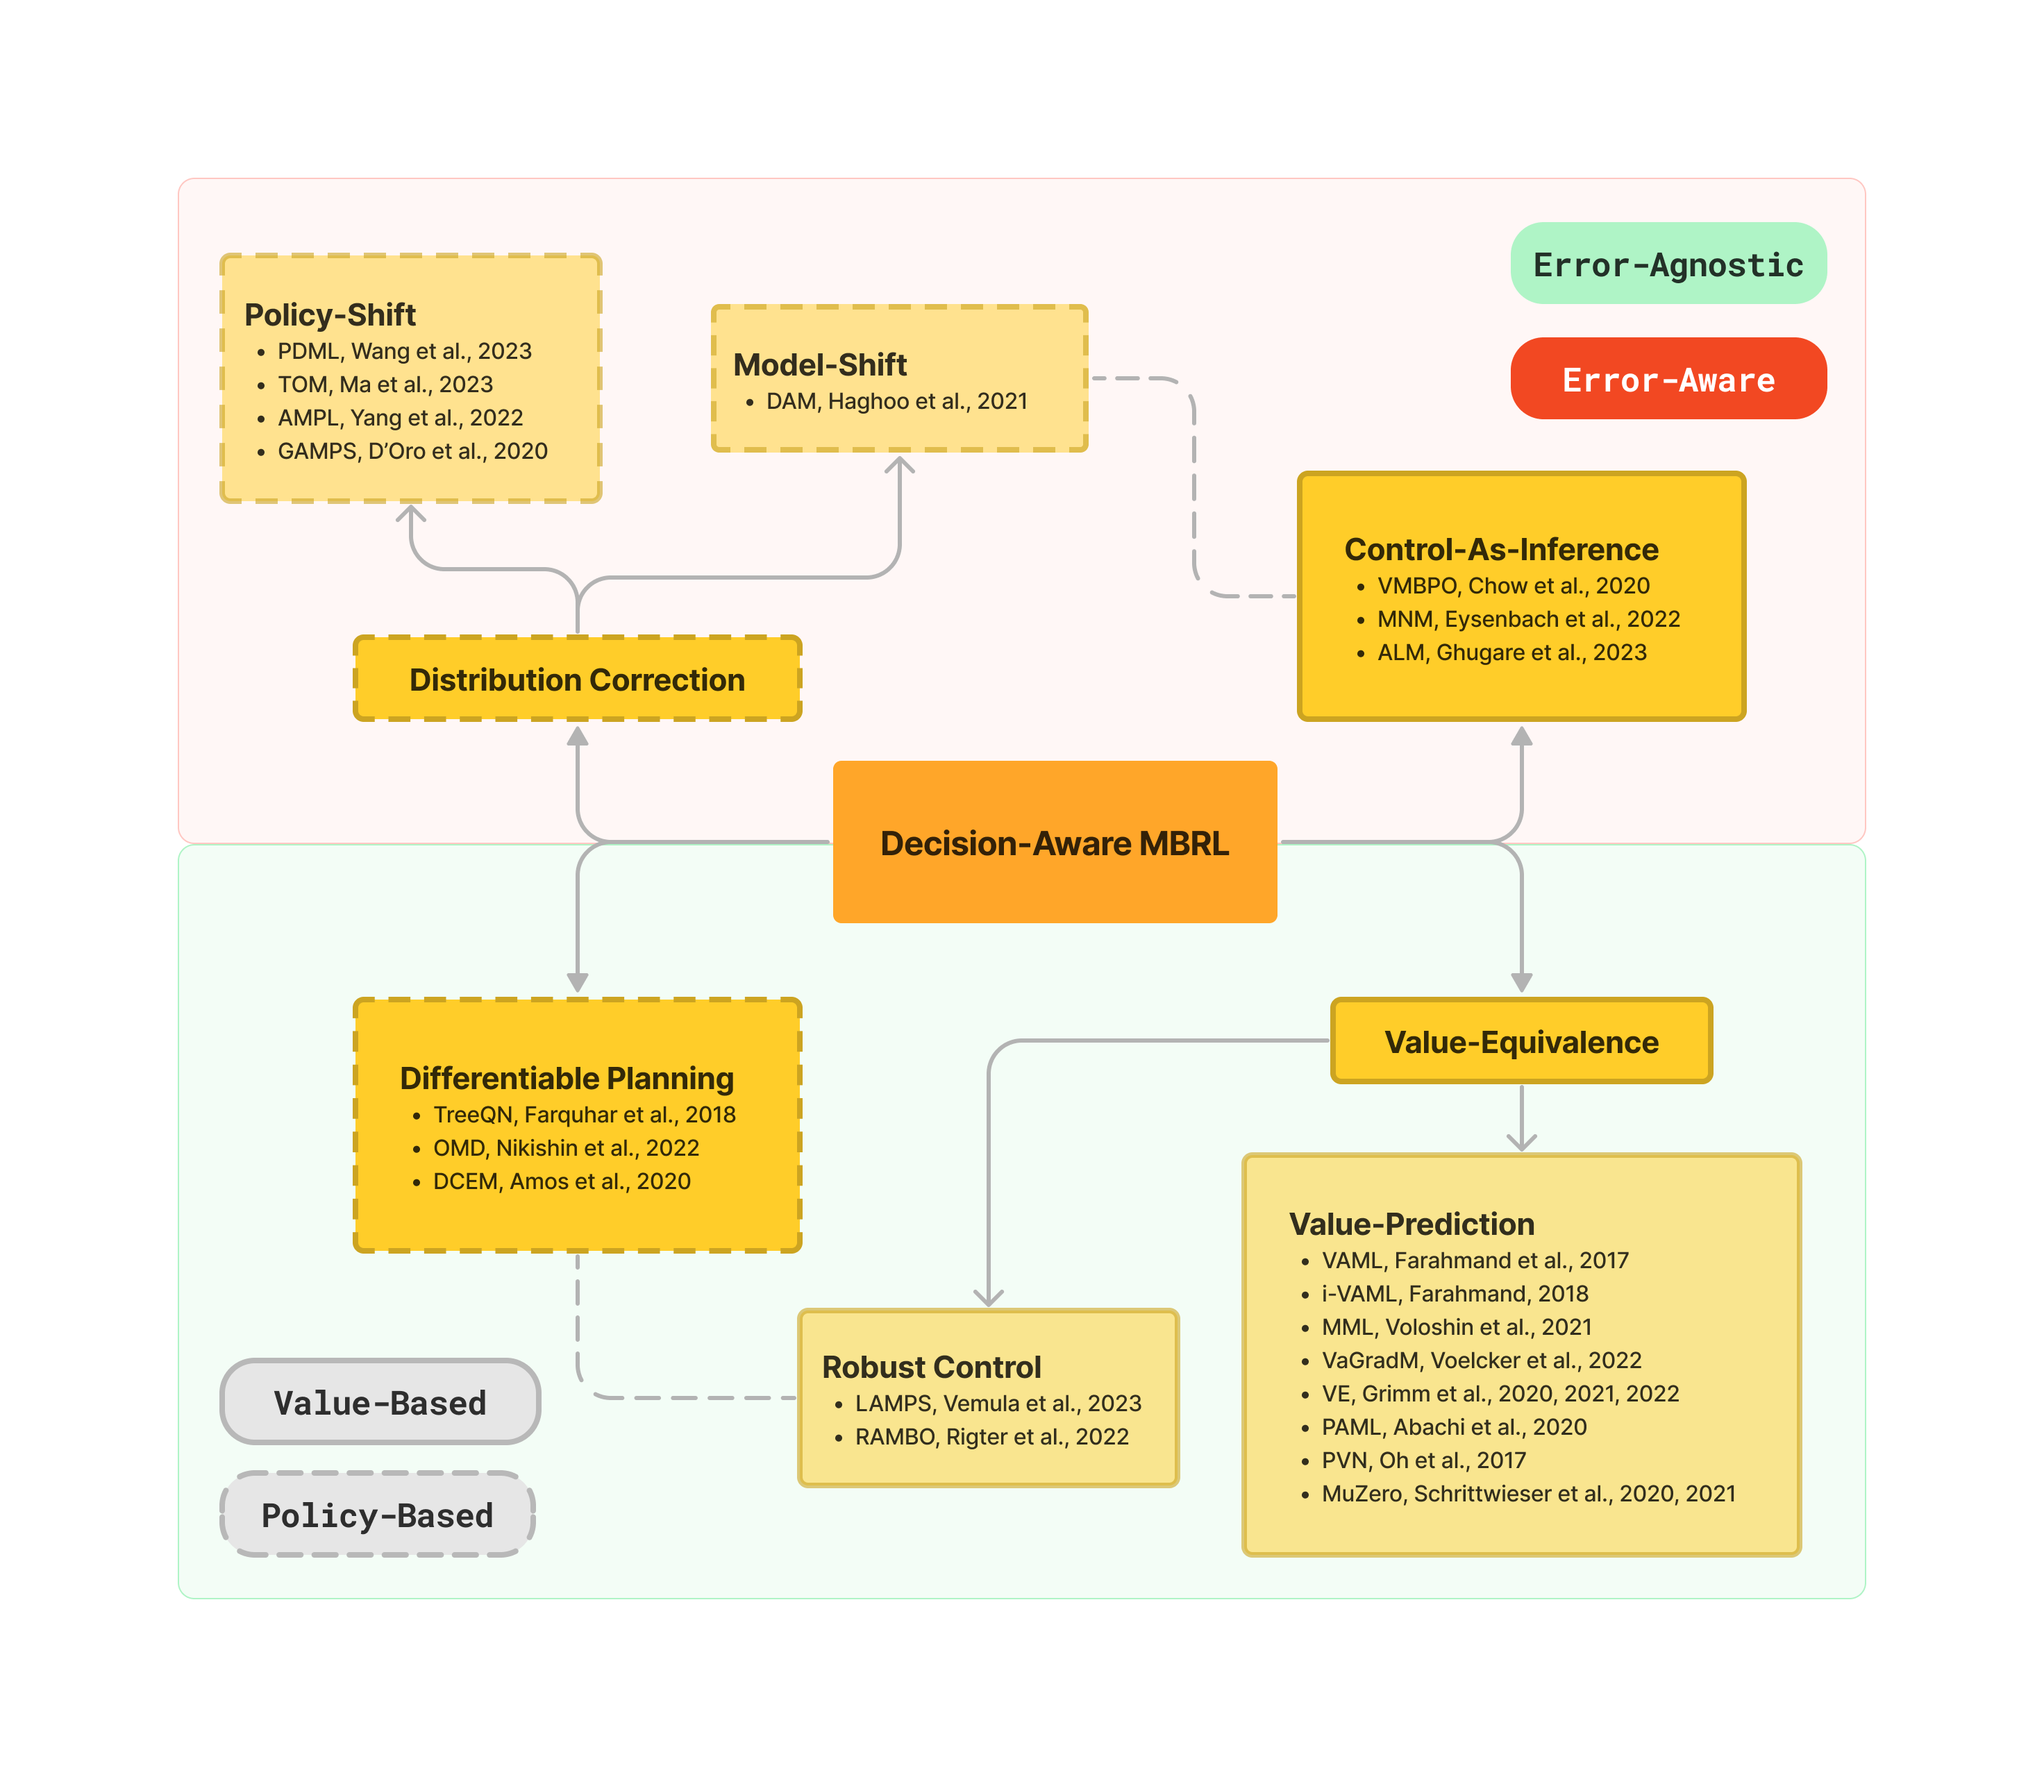
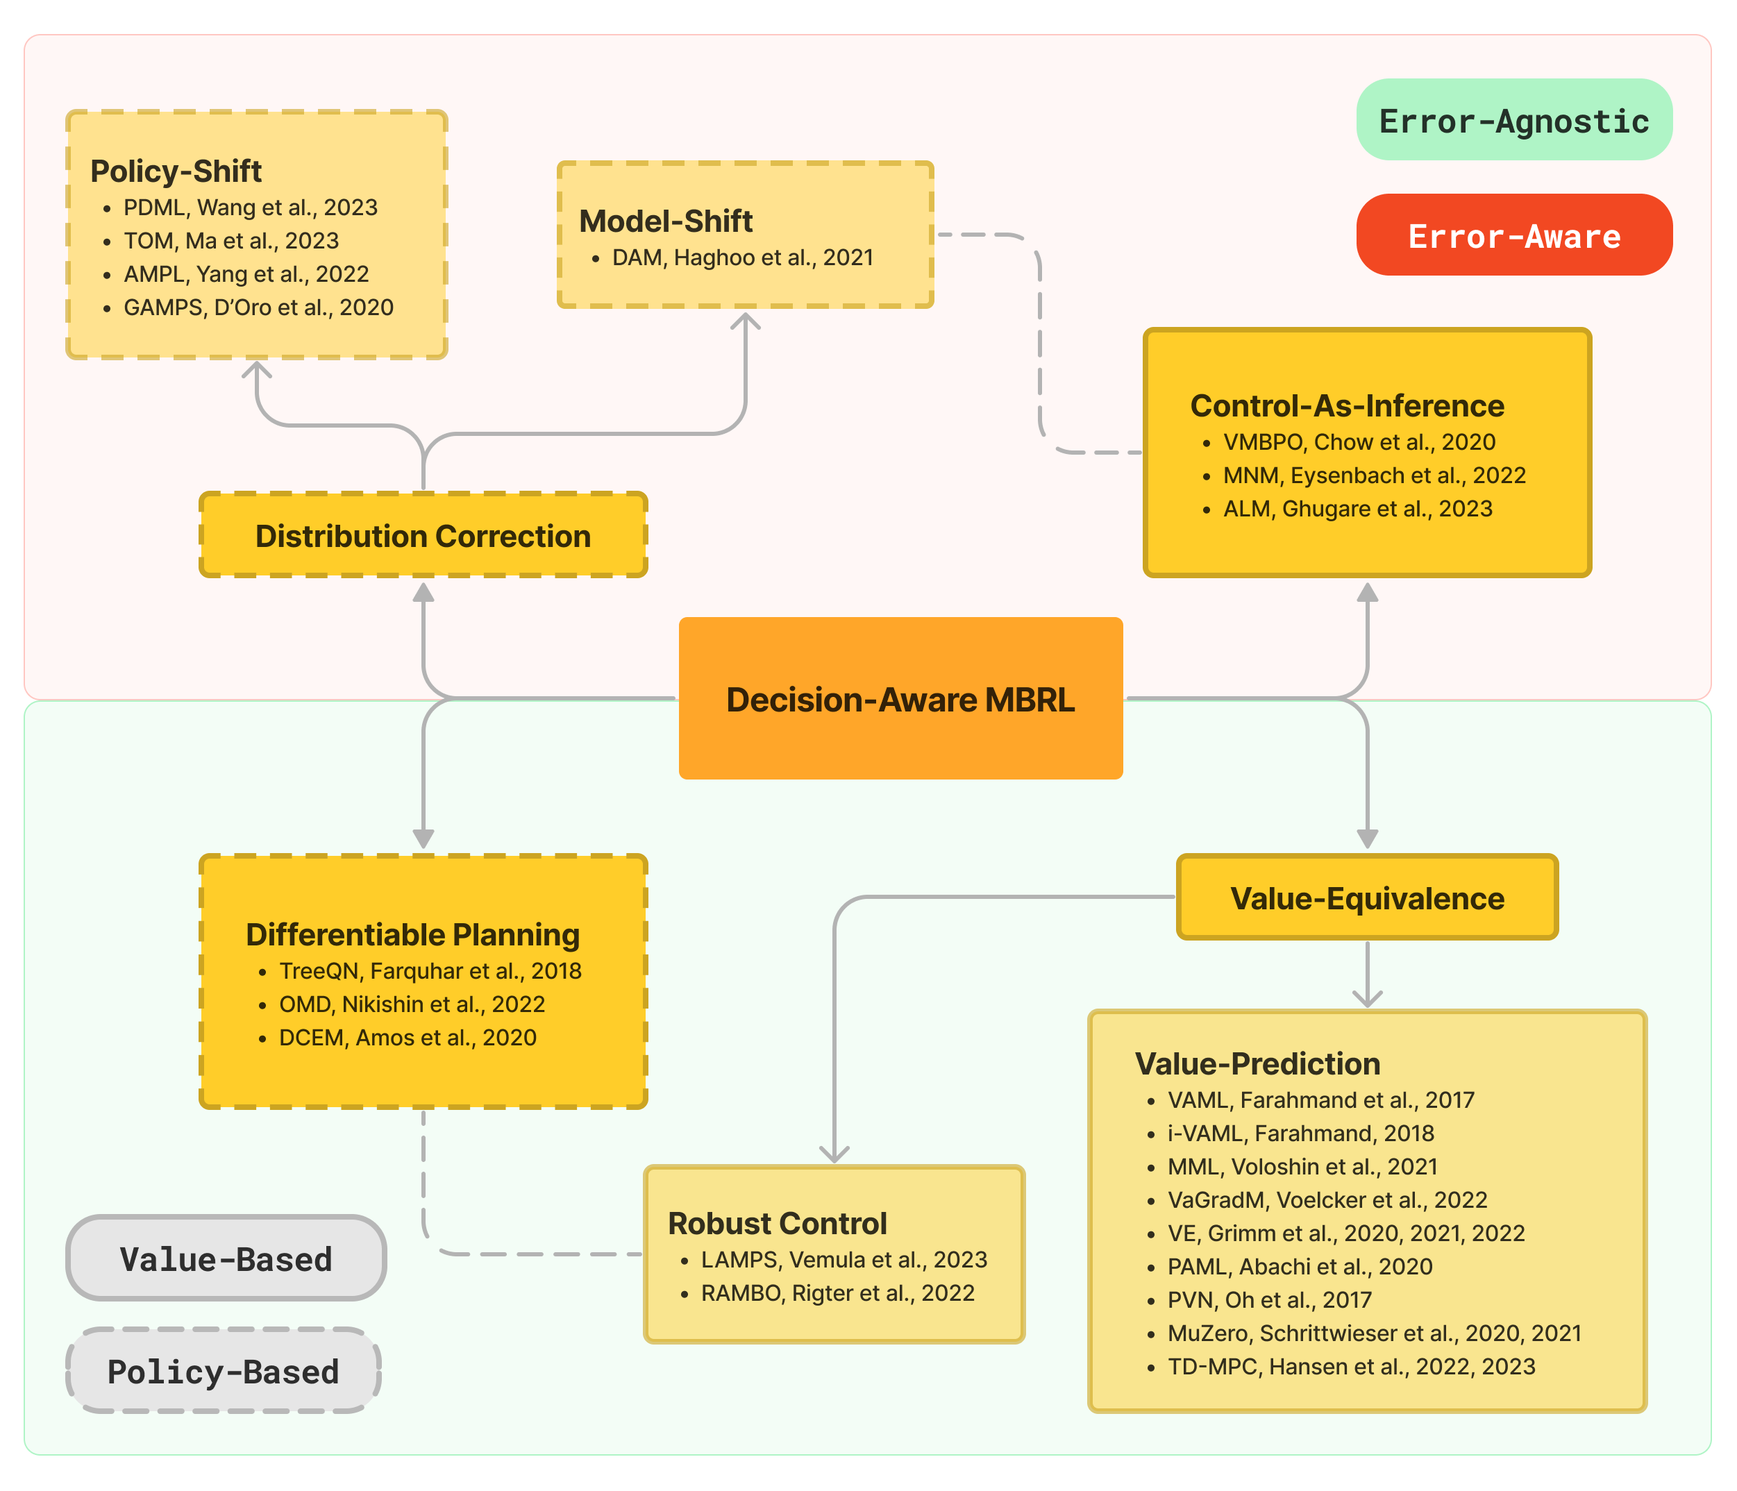
update papers and figures

diff --git a/README.md b/README.md
@@ -1,10 +1,10 @@
 # Decision-Aware MBRL Papers
 A curated list of decision-aware MBRL papers in survey (as of September 2023): [A Unified View of Solving Objective Mismatch in Model-Based Reinforcement Learning](https://arxiv.org/abs/2310.06253). We identify 4 categories of approaches to address the [Objective Mismatch](https://arxiv.org/abs/2002.04523) problem in MBRL:
 
-1. [Distribution Correction](#distribution-correction) (policy and model shifts): Shifting the learning of model or policy to state/actions that matter!
-2. [Control-As-Inference](#control-as-inference): Unifying model and policy learning by maximizing the likelihood of optimal imagined trajectories!
-3. [Value-Equivalence](#value-equivalence) (value-prediction and robust control): Predict value rather than features and rurther learn robust dynamics with signed predictions! 
-4. [Differentiable Planning](#differentiable-planning): Solving all control components with gradients directly!
+1. [Distribution Correction](#distribution-correction) (policy and model shifts): Shifting the learning of model or policy to state/actions that matter
+2. [Control-As-Inference](#control-as-inference): Unifying model and policy learning by maximizing the likelihood of optimal imagined trajectories
+3. [Value-Equivalence](#value-equivalence) (value-prediction and robust control): Predict value rather than features and rurther learn robust dynamics with signed predictions
+4. [Differentiable Planning](#differentiable-planning): Solving all control components with gradients directly
 
 ![alt text](/img/mbrl_tree.png)
 ![alt text](/img/tb1.png)
@@ -52,6 +52,8 @@ Joint Model-Policy Optimization for Model-Based RL, Eysenbach et al, 2021, [pape
 * Online and offline reinforcement learning by planning with a learned model, Schrittwieser et al, 2021, [paper](https://arxiv.org/abs/2104.06294)
 * Policy-aware model learning for policy gradient methods, Abachi et al, 2020, [paper](https://arxiv.org/abs/2003.00030)
 * Proper value equivalence, Grimm et al, 2021, [paper](https://arxiv.org/abs/2106.10316)
+* TD-MPC2: Scalable, Robust World Models for Continuous Control, Hensen et al, 2023, [paper](https://arxiv.org/abs/2310.16828)
+* Temporal Difference Learning for Model Predictive Control, Hensen et al, 2022, [paper](https://arxiv.org/abs/2203.04955)
 * The predictron: End-to-end learning and planning, Silver et al, 2017, [paper](https://arxiv.org/abs/1612.08810)
 * The value equivalence principle for model-based reinforcement learning, Grimm et al, 2020, [paper](https://arxiv.org/abs/2011.03506)
 * Value gradient weighted model-based reinforcement learning, Voelcker et al, 2022, [paper](https://arxiv.org/abs/2204.01464)
@@ -76,6 +78,7 @@ Joint Model-Policy Optimization for Model-Based RL, Eysenbach et al, 2021, [pape
 
 ### IRL & IL
 * A Bayesian Approach to Robust Inverse Reinforcement Learning, Wei et al, 2023, [paper](https://arxiv.org/abs/2309.08571)
+* A Lagrangian method for inverse problems in reinforcement learning, Bacon et al, 2019, [paper](https://optrl2019.github.io/assets/accepted_papers/70.pdf)
 * Differentiable mpc for end-to-end planning and control, Amos et al, 2018, [paper](https://arxiv.org/abs/1810.13400)
 * Path integral networks: End-to-end differentiable optimal control, Okada et al, 2017, [paper](https://arxiv.org/abs/1706.09597)
 * Qmdp-net: Deep learning for planning under partial observability, Karkus et al, 2017, [paper](https://arxiv.org/abs/1703.06692)
